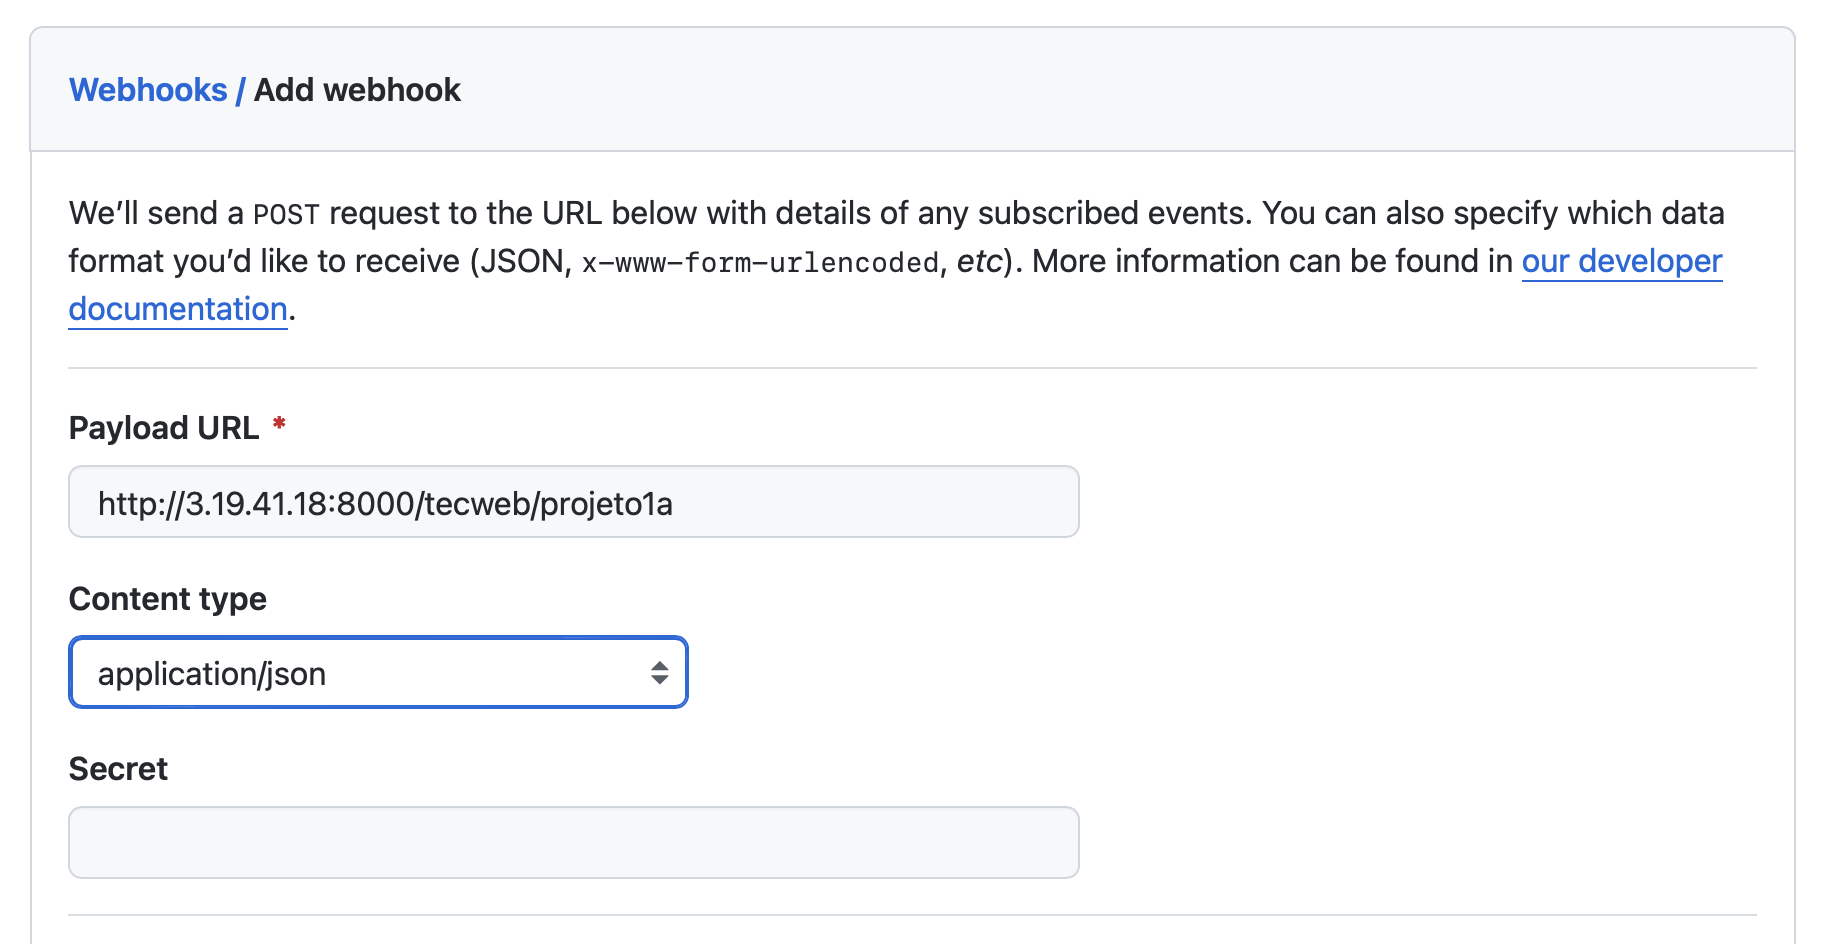
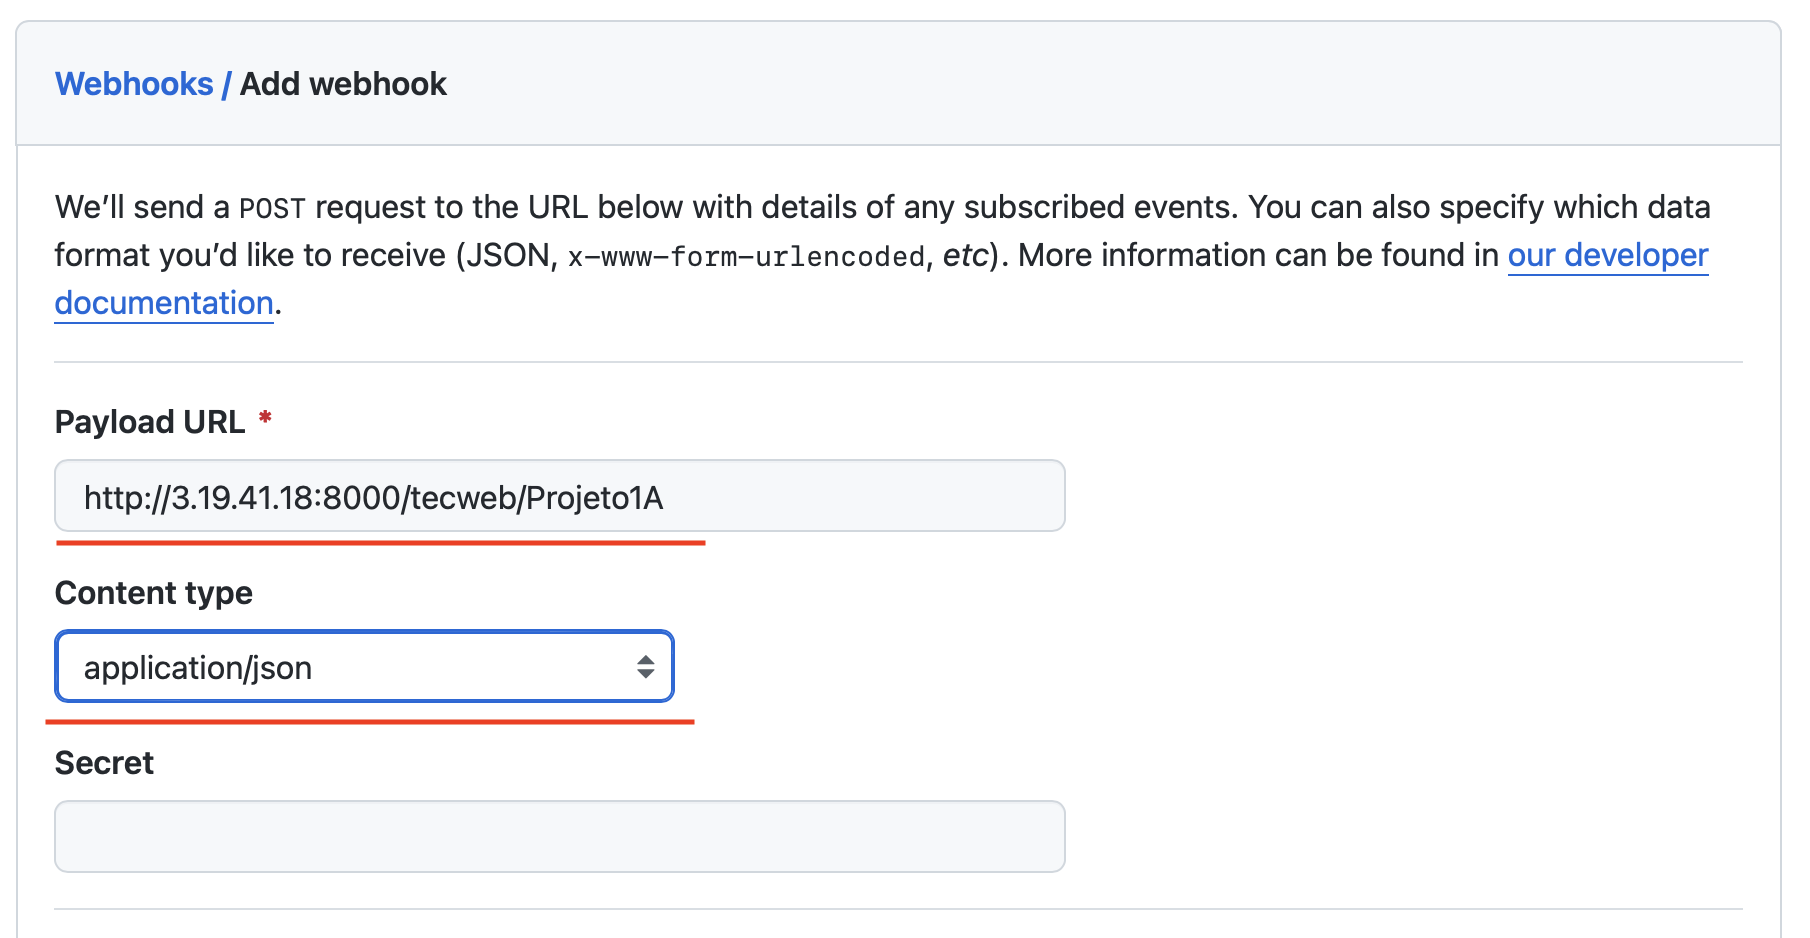
Adicionando detalhes do enunciado projeto 1A

diff --git a/material/javascripts/webhook-config.js b/material/javascripts/webhook-config.js
@@ -4,7 +4,7 @@ document.addEventListener('DOMContentLoaded', function () {
 
     inputElement.addEventListener('input', function () {
         var text = inputElement.value;
-        var displayText = `http://3.19.41.18:8000/tecweb/projeto1a/svg/insper-tecnologias-web/${text}`;
+        var displayText = `http://3.19.41.18:8000/tecweb/Projeto1A/svg/insper-tecnologias-web/${text}`;
         displayElement.textContent = displayText;
     });
 });

diff --git a/material/projetos/projeto1/projeto1a/tarefas-projeto1a.md b/material/projetos/projeto1/projeto1a/tarefas-projeto1a.md
@@ -1,42 +1,70 @@
 
+# Tarefas do Projeto 1A
+
 As 4 tarefas a serem realizadas são:
 
-1. **Estilo da página:** Implementar o estilo da página;
-    - O estilo css já foi implementado na atividade **Desafio CSS**, agora é necessário adicionar este estilo no código do *handout 01*.
-    - Caso queira, você pode fazer alterações no estilo da página.
-2. **Persistência de dados:** Implementar a persistência dos dados com SQLite (você deve escrever o SQL na mão, ou seja, não pode utilizar bibliotecas de ORM ou similares).
-    - Utilize o arquivo `database.py` desenvolvido no handout de persistência de dados. Note que o arquivo `database.py` não deverá ser alterado.
-    - **Dica:** Nesta etapa, as alterações podem ser feitas no arquivo `utils.py`. Você poderá utilizar os códigos utilizados no arquivo `exemplo_de_uso.py`. Além disso, talvez seja interessante alterar a função `load_data` do arquivo `utils.py` para carregar os dados do banco de dados, ao invés do arquivo `notes.json`. Mude também a função que você criou para salvar as notas no banco de dados.
-3. **Apagar anotações** Permitir que o usuário apague uma anotação;
-    - Adicione um botão no `card` de cada nota existente para excluir esta nota.
-    - Você pode utilizar o método **GET** ou **POST** para esta tarefa.
-        - **GET:** Caso opte pelo método **GET** a requisição deve seguir o seguinte formato:
-            ```
-            GET /delete/<NOTA_ID> HTTP/1.1
-            ```
-            (Obs.: A rota pode variar um pouco dependendo da forma como você escolher implementar)
-        - **POST:** Caso opte pelo método **POST** a requisição deve seguir o seguinte formato:
-            ```
-            POST /delete HTTP/1.1
-            <HTTP_HEADERS>
 
-            id=<NOTA_ID>
-            ```
-    - **Observação:** Note que o `id` da nota não deve aparecer na tela, pois esta informação é irrelevante para o usuário.
+## Estilo da página: 
 
-4. **Editar anotações:** Permitir a edição de anotações existentes;
-    - Adicione um botão na nota para a função de editar. Ao clicar no botão de edição, o usuário deve ser direcionado para uma página nova de edição.
-    - A página de edição deve apresentar um formulário com o `título` e `conteúdo` já preenchidos.
+- O estilo css já foi implementado na atividade **Desafio CSS**, agora é necessário adicionar este estilo no código do *handout 01*.
 
-    Você precisará de um método novo no arquivo `database.py` que dado um `id` de uma anotação retorna esta anotação no formato de um objeto do tipo `Note`. 
+Para isso, será necessário:
 
-    - Esta página deve apresentar dois botões: `Salvar` e `Cancelar`.
-        - Ao clicar no botão de `Cancelar` o usuário deve ser direcionado para a página principal.
-        - Ao clicar no botão de `Salvar` a aplicação deve receber uma requisição no seguinte formato:
-            ```
-            POST /update HTTP/1.1
-            <HTTP_HEADERS>
+- Adicionar os arquivos `getit.css` e `getit.js` do Desafio CSS na pasta do repositório do projeto.
 
-            id=<NOTA_ID>&titulo=<NOTA_TITULO>&detalhes=<NOTA_DETALHES>
-            ```
-        As alterações devem ser registradas no banco de dados e em seguida o usuário deve ser direcionado para a página inicial.
+- Fazer um merge manual dos arquivos `index.html` e `notes.html` do Desafio CSS + Handout 01. Esta etapa deve ser realizada com cuidado pois existem trechos de uma versão que não existem na outra.
+
+Ao finalizar esta etapa, a página deve estar com o estilo do Desafio CSS e com as funcionalidades do Handout 01.
+
+## Persistência de dados: 
+
+Implementar a persistência dos dados com SQLite. Nesta etapa, você deverá utilizar o resultado obtido no Handout 03.
+
+- Utilize o arquivo `database.py` desenvolvido no handout de persistência de dados. 
+
+**Dica** :material-alarm-light:
+
+- Nesta etapa, as alterações podem ser feitas no arquivo `utils.py`. Procure todos os trechos de código que realizam leitura e escrita do arquivo `notes.json` e altere para que estas operações sejam realizadas no banco de dados.
+
+- Os códigos do arquivo `exemplo_de_uso.py` são um bom exemplo de como vocês utilizarão a classe `Database` para realizar as operações de CRUD.
+
+- Ao finalizar esta etapa, caso não utilize mais o arquivo `notes.json`, apague o arquivo do repositório.
+
+## Apagar anotações
+
+Permitir que o usuário apague uma anotação;
+
+- Adicione um botão no `card` de cada nota existente para excluir esta nota.
+- Você pode utilizar o método **GET** ou **POST** para esta tarefa.
+    - **GET:** Caso opte pelo método **GET** a requisição deve seguir o seguinte formato:
+        ```
+        GET /delete/<NOTA_ID> HTTP/1.1
+        ```
+        (Obs.: A rota pode variar um pouco dependendo da forma como você escolher implementar)
+    - **POST:** Caso opte pelo método **POST** a requisição deve seguir o seguinte formato:
+        ```
+        POST /delete HTTP/1.1
+        <HTTP_HEADERS>
+
+        id=<NOTA_ID>
+        ```
+- **Observação:** Note que o `id` da nota não deve aparecer na tela, pois esta informação é irrelevante para o usuário.
+
+## Editar anotações: 
+Permitir a edição de anotações existentes;
+
+- Adicione um botão na nota para a função de editar. Ao clicar no botão de edição, o usuário deve ser direcionado para uma página nova de edição.
+- A página de edição deve apresentar um formulário com o `título` e `conteúdo` já preenchidos.
+
+Você precisará de um método novo no arquivo `database.py` que dado um `id` de uma anotação retorna esta anotação no formato de um objeto do tipo `Note`. 
+
+- Esta página deve apresentar dois botões: `Salvar` e `Cancelar`.
+    - Ao clicar no botão de `Cancelar` o usuário deve ser direcionado para a página principal.
+    - Ao clicar no botão de `Salvar` a aplicação deve receber uma requisição no seguinte formato:
+        ```
+        POST /update HTTP/1.1
+        <HTTP_HEADERS>
+
+        id=<NOTA_ID>&titulo=<NOTA_TITULO>&detalhes=<NOTA_DETALHES>
+        ```
+    As alterações devem ser registradas no banco de dados e em seguida o usuário deve ser direcionado para a página inicial.

diff --git a/material/projetos/projeto1/projeto1a/organizacao-repositorio.md b/material/projetos/projeto1/projeto1a/organizacao-repositorio.md
@@ -27,6 +27,59 @@ Essa pasta é desnecessária para o repositório, pois é criada automaticamente
 __pycache__/
 ```
 
-Faça um commit e um push. Agora podemos começar a tabalhar nas tarefas do Projeto 1A.
+Faça um commit e um push. Agora vamos verificar se o webhook está funcionando corretamente.
+
+## Criando um release
+
+Para que o corretor automático possa corrigir o seu projeto, é necessário criar um release no Github. Para isso, siga os passos a seguir:
+
+1. Acesse o repositório do seu projeto no Github. Procure o menu `Releases` e clique em `Create a new release`.
+
+    <figure markdown="span">
+        ![Releases](webhook-config-08.png){ width="100%" }
+        <figcaption>Releases</figcaption>
+    </figure>
+
+2. **Clique no botão `Choose a tag`**
+    <figure markdown="span">
+        ![Releases](webhook-config-09.png){ width="100%" }
+        <figcaption>Releases</figcaption>
+    </figure>
+
+3. Crie uma tag para o seu release. A tag deve ser `v1.0`.
+
+    Sempre que for criar um realease, crie uma nova tag utilizando o padrão v1.0, v1.1, v1.2, etc. Caso a realease seja referente a uma nova funcionalidade implementada, incremente o primeiro número da tag. Por exemplo, se a release atual é v1.0 e você implementou uma nova funcionalidade, a tag da nova release deve ser v2.0. Caso a release seja referente a uma correção de bug, incremente o segundo número da tag. Por exemplo, se a release atual é v1.0 e você corrigiu um bug, a tag da nova release deve ser v1.1.
+
+    <figure markdown="span">
+        ![Releases](webhook-config-10.png){ width="50%" }
+        <figcaption>Releases</figcaption>
+    </figure>
+
+    Digite o nome da tag e clique `+ Create new tag: v1.0`.
+
+4. Preencha o campo `Release title` com o mesmo nome da tag `v1.0`, adicione uma descrição e clique em `Publish release`.
+
+    <figure markdown="span">
+        ![Releases](webhook-config-11.png){ width="60%" }
+        <figcaption>Releases</figcaption>
+    </figure>
+
+Pronto! Agora os testes vão rodar. (Pode levar alguns minutos para que os testes sejam executados).
+
+Caso os testes não passem, uma `issue` será aberta no seu repositório indicando o que está errado.
+
+<figure markdown="span">
+    ![Issue](webhook-config-13.png){ width="100%" }
+    <figcaption>Issue</figcaption>
+</figure>
+
+Se tudo estiver correto, uma imagem aparecerá no README do seu repositório indicando que os testes para o handout 01 passaram.
+
+<figure markdown="span">
+    ![Testes handout 01 ok](webhook-config-12.png){ width="100%" }
+    <figcaption>Testes handout 01 ok</figcaption>
+</figure>
+
+Agora podemos começar a tabalhar nas tarefas do Projeto 1A.
 
 [Tarefas do Projeto 1A](tarefas-projeto1a.md){ .md-button }

diff --git a/material/projetos/projeto1/projeto1a/configurando-webhook.md b/material/projetos/projeto1/projeto1a/configurando-webhook.md
@@ -27,7 +27,7 @@
 
     - Payload URL: 
         ``` 
-        http://3.19.41.18:8000/tecweb/projeto1a
+        http://3.19.41.18:8000/tecweb/Projeto1A
         ```
     - Content type: `application/json`
 
@@ -63,7 +63,7 @@
     ```html title="Conteúdo do README.md"
     ## Status da Entrega
     <img 
-        src="http://3.19.41.18:8000/tecweb/projeto1a/svg/insper-tecnologias-web/NOME DO SEU REPOSITORIO" 
+        src="http://3.19.41.18:8000/tecweb/Projeto1A/svg/insper-tecnologias-web/NOME DO SEU REPOSITORIO" 
         alt="svg" 
         width="100%" 
         height="300px"
